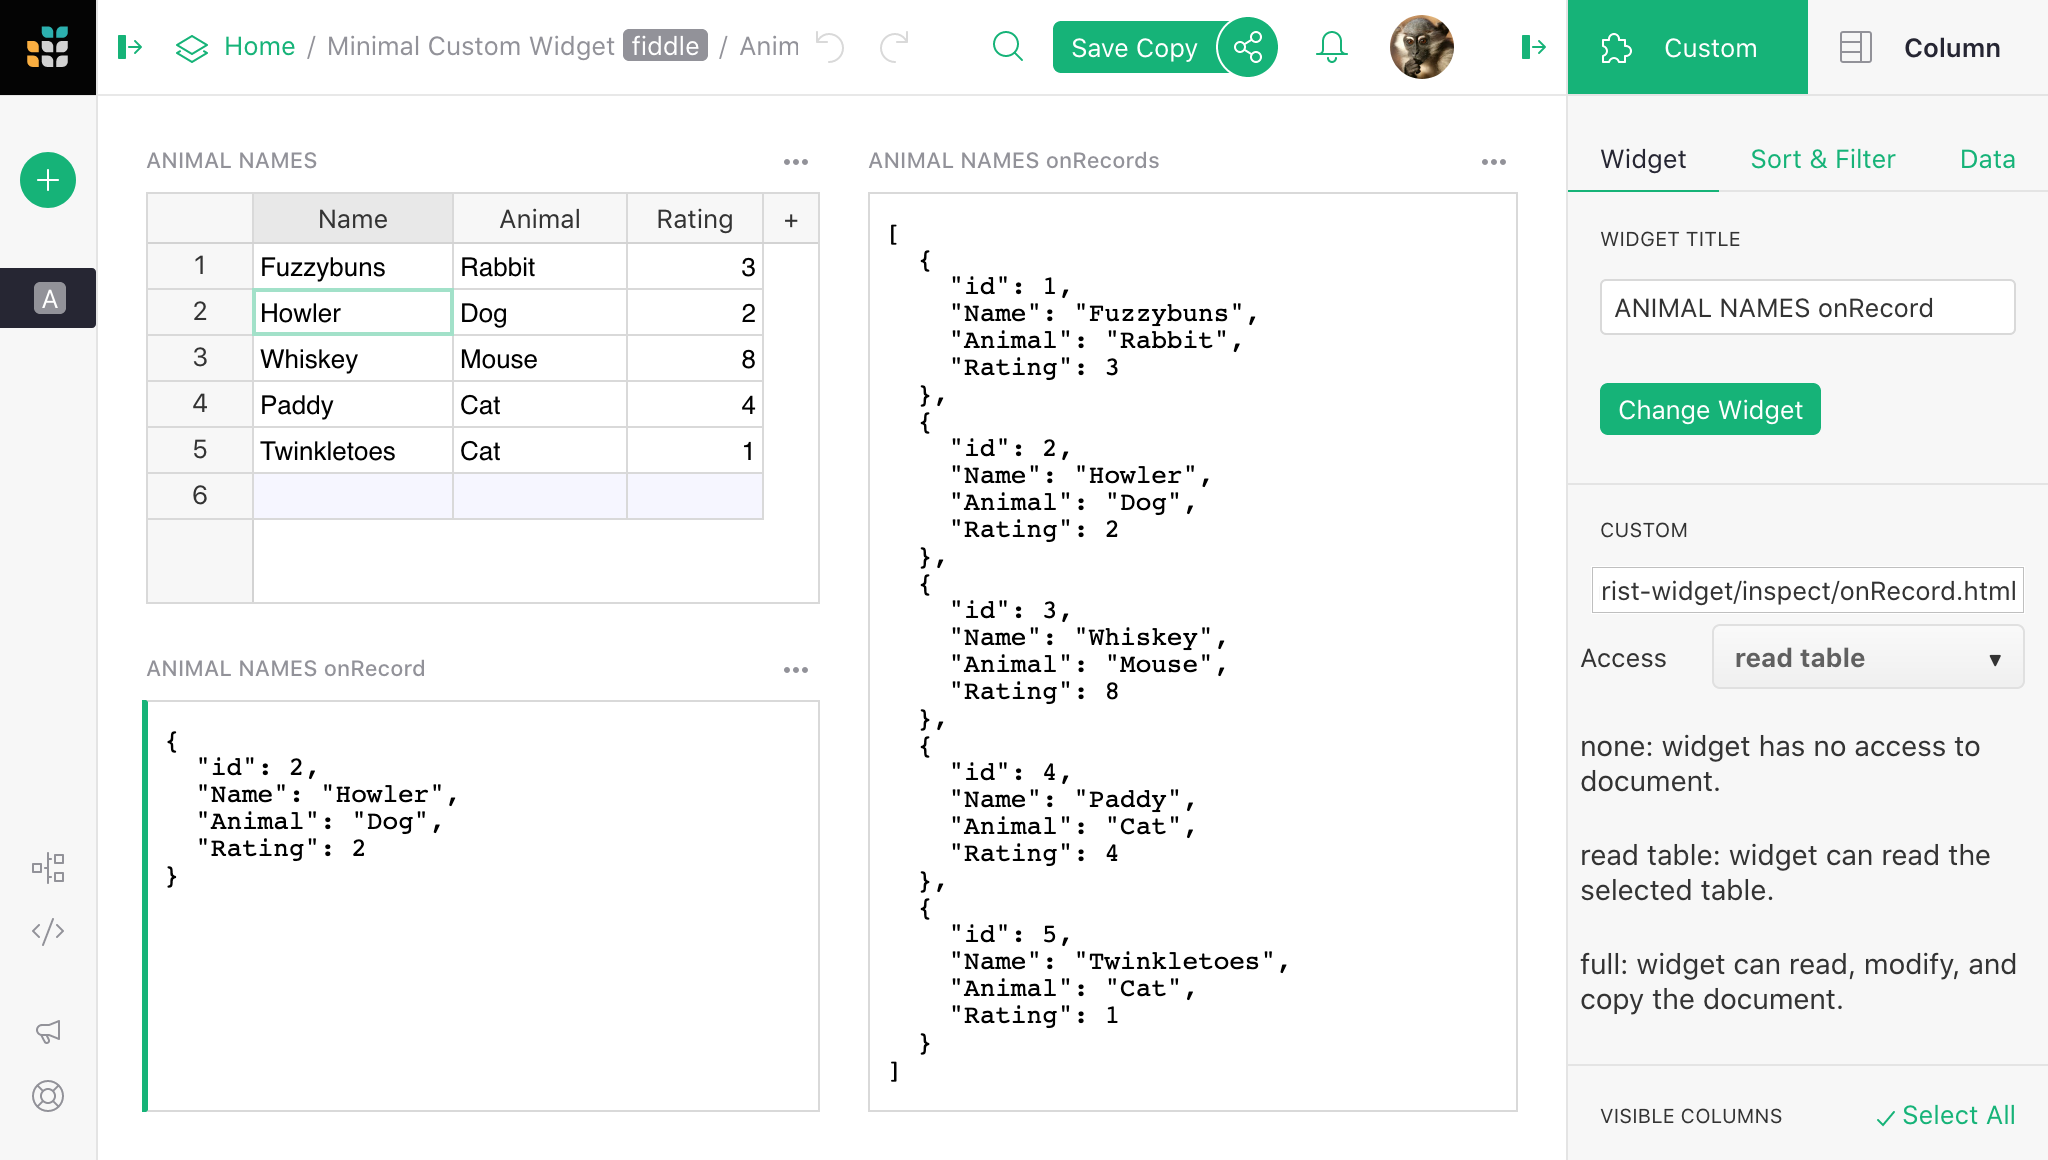
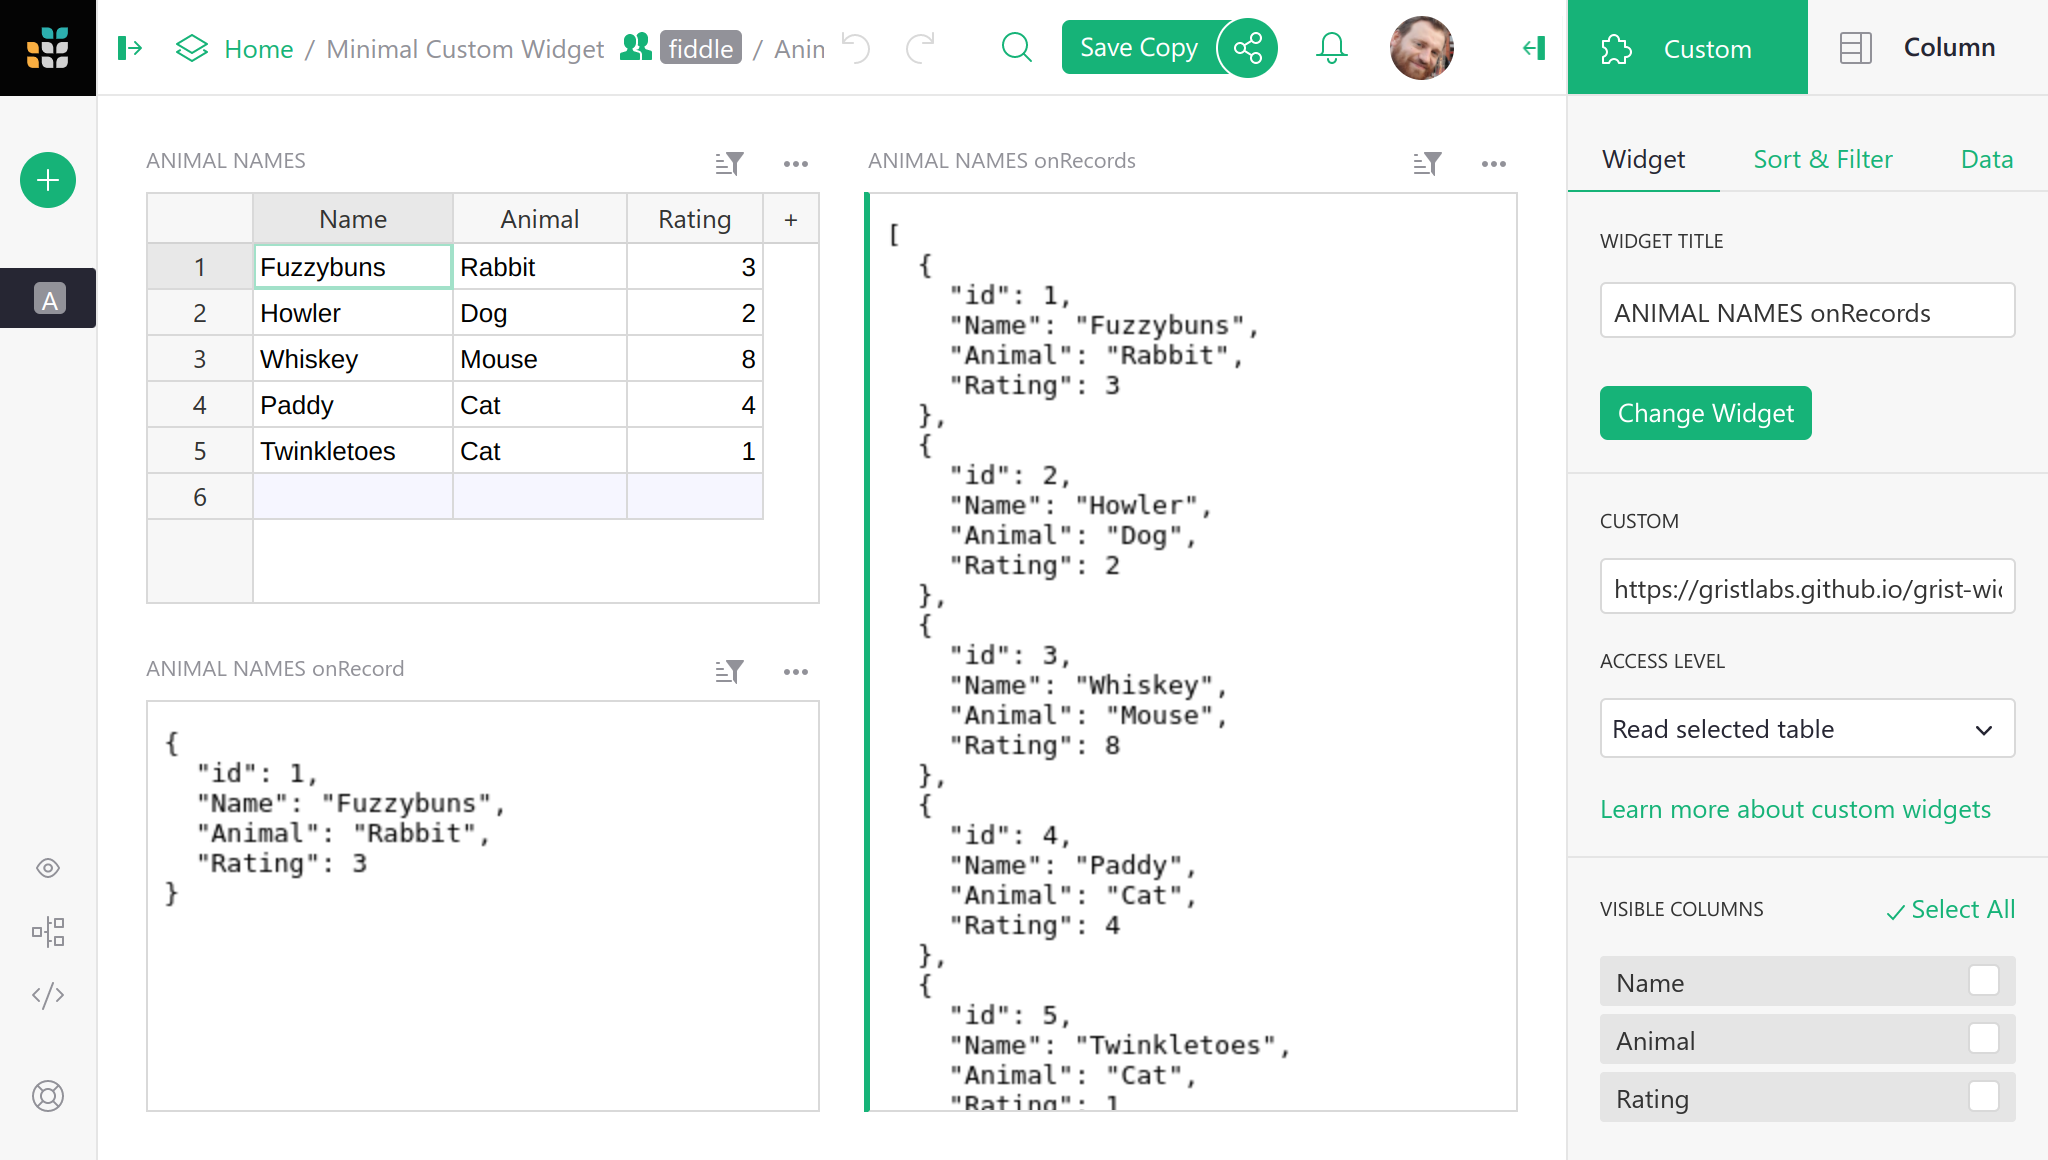
Documenting new widget options

diff --git a/help/widget-custom.md b/help/widget-custom.md
@@ -83,9 +83,9 @@ then `Add Widget to Page`. Then:
 The custom widget is initially blank.  To configure it, click the three-dots button
 on the top right of the custom widget, and select "Widget options".
 
-![configure a custom widget](images/widget_custom_configure.png)
+![configure a custom widget](images/widget_custom_example.png)
 
-In the `CUSTOM` settings section where it says `Full URL of webpage to show`, put
+In the `CUSTOM` settings section where it says `Enter Custom URL`, put
 the link to your custom widget.  Here is a test widget to simply show table data
 in JSON:
 
@@ -96,26 +96,65 @@ for the custom widget):
 
 > <https://gristlabs.github.io/grist-widget/inspect/onRecord.html>
 
-The widget will then show the webpage you've requested.  Now you have the option
-to grant that webpage access to data in your document.  The following access levels
-are available:
+## Access level
 
-   - *None*: the webpage is shown in the widget, but it has no access to
+When you put a link to a custom webpage it will be immediately rendered inside the section. 
+Now you have the option to grant that webpage access to data in your document.  The 
+following access levels are available:
+
+   - *No document access*: the webpage is shown in the widget, but it has no access to
      the Grist document containing the widget.
-   - *Read table*: the webpage is shown in the widget, and is given read access
+   - *Read selected table*: the webpage is shown in the widget, and is given read access
      to the table the widget is configured to select data from.
-   - *Full*: the webpage is shown in the widget, and has full access to
+   - *Full document access*: the webpage is shown in the widget, and has full access to
      read and modify the Grist document containing the widget.
 
 The webpage should be owned and controlled by you or someone you
-trust.  With `Read table` permissions, a widget could send the
-data it accesses to a third party.  With `Full` permissions, a widget could
+trust.  With `Read selected table` permissions, a widget could send the
+data it accesses to a third party.  With `Full document access` permissions, a widget could
 send all the document data to a third party, and modify your document in
 any way.
 
-We do not recommend using `Full` permissions at this time, since the API
+We do not recommend using `Full document access` permissions at this time, since the API
 for modifying the document is not yet stabilized.  If you have
 an urgent need, however, do contact us and request early access.
+
+If you are writing your own custom widget you can specify what access level it needs as
+part of initial __ready__ message, available levels are `none`, `read table` and `full`.
+
+```html
+<script>
+  grist.ready({
+    requiredAccess: 'read table'
+  });
+  grist.onRecord(function(record) {
+    document.getElementById('readout').innerHTML = JSON.stringify(record, null, 2);
+  });
+</script>
+```
+
+It will tell Grist to ask the user if he wishes to grant your widget the required
+permission. Your widget will be reloaded with the appropriate access level if the user
+approves the request.
+
+<center>![access prompt](images/widget_custom_access_prompt.png)</center>
+
+To check what access level is currently granted, you have two options. The first is to
+check the URL - the access level will be appended to the widget URL as a query parameter.
+
+> <https://gristlabs.github.io/grist-widget/inspect/onRecord.html?access=read>
+
+The second option, is to subscribe to a second event exposed by the Grist API:
+
+```javascript
+grist.onOptions(function(options, settings) {
+  console.log(settings.access_level);
+});
+```
+
+For now, just skip the first parameter (it will be described in
+[Widget options](widget-custom.md#widget-options) ). The current access level is part of
+the second parameter, which describes how Grist will interact with your widget.
 
 ## Invoice example
 
@@ -123,7 +162,7 @@ The minimal example above showed records as plain JSON, but the widget
 can get as fancy as you like.  Here is an example of showing a record
 as a printable invoice:
 
-![invoice example](/examples/images/2020-08-invoices/final-invoice.png)
+![invoice example](examples/images/2020-08-invoices/final-invoice.png)
 
 You can read the details of how to use
 this widget in our [Invoice preparation example](examples/2020-08-invoices.md).
@@ -136,3 +175,175 @@ And the source HTML/CSS/JS can be browsed at:
 > <https://github.com/gristlabs/grist-widget/tree/master/invoices>
 
 It uses Vue.js and `grist.onRecord`.
+
+## Creating a custom widget
+
+As you saw, writing a simple widget that uses data from a table is very easy. First, you
+need to tell Grist that you are ready and then subscribe to one of the available events:
+`onRecord`, `onRecords` or `onOptions`.
+
+```javascript
+grist.ready();
+grist.onRecord(function (record) {
+  // Your logic
+});
+```
+
+Let's say you want build a custom widget that will show the image from the URL and
+optionally a single line of text below that image as the image title. You will need to
+read two values from two columns: `Link` and `Title`.
+
+You can, of course, access those columns directly using literal column names in your
+script. Here is a complete source code of the widget that will do the job.
+
+```html
+<script src="https://docs.getgrist.com/grist-plugin-api.js"></script>
+<img id="image" />
+<div id="title" />
+<script>
+  grist.ready();
+  grist.onRecord(function (record) {
+    document.getElementById('image').src = record.Link;
+    document.getElementById('title').innerText = record.Title;
+  });
+</script>
+```
+
+This is a good approach when experimenting with Grist API, but it has two significant
+drawbacks. Every time you rename a column, you will also have to change your widget's
+source code. Also, you won't be able to use this widget on a different table or share it
+with your friends as column names might be different.
+
+### Columns mapping
+
+Instead of using those columns directly, you can ask the user to pick which column to use
+as a `Link` and `Title`. The list of expected columns can be sent to Grist as part of the
+ready method call:
+
+```js
+grist.ready({columns: ['Link', 'Title']});
+```
+
+Using this information, in the creator panel, Grist will hide the regular "Visible" column
+section and display a new UI for user to choose correct column.
+
+<center>![pick columns](images/widget_custom_pick_columns.png)</center>
+
+Your widget will receive this mapping configuration as part of `onRecord` or `onRecords`
+event in the second parameter. You can use this configuration to do the mappings yourself
+or use an API method "mapColumnNames" to do it for you.
+
+```javascript
+grist.ready({columns: ['Link', 'Title']});
+grist.onRecord(function (record, mappings) {
+  const mapped = grist.mapColumnNames(record);
+  if (mapped) {
+    document.getElementById('image').src = mapped.Link;
+    document.getElementById('title').innerText = mapped.Title;
+    console.log(`Using ${mappings.Link} and ${mappings.Title} columns`);
+  }
+});
+```
+
+Now, if you rename one of the columns, the widget will still work. You can also use this
+widget in any other table or share with a friend, as it doesn't depend on your table
+structure and can be easily configured.
+
+In the configuration used above, we told Grist that all the columns are required, and the
+user can pick any column even if the column doesn't contain a text value. To be more
+precise, we can include more options in the request. For example:
+
+```javascript
+grist.ready({columns: [
+  {
+    name: "Link", // What field we will read
+    title: "Image link", // Friendly field name
+    optional: false, // Is this optional field
+    type: "Text" // What type of column we expect
+  }
+]});
+```
+
+The `optional` setting is important for `mapColumnNames` helper. This helper will return a
+mapped record only when all required (not optional) columns are picked.
+
+By default Grist will allow user to pick any type of column. To allow only column of
+certain type you need to set a `type` property. Here are all the valid types:
+
+`Any`, `Int` (*Integer column*), `Numeric` (*Numeric column*), `Text`, `Date`, `DateTime`,
+`Bool` (*Toggle column*), `Choice`, `ChoiceList`, `Ref` (*Reference column*), `RefList`
+(*Reference List*), `Attachments`.
+
+Suppose the user deletes a column or changes its type so that it will no longer match the
+type requested by the widget. In that case, Grist will automatically remove this column
+from the mappings.
+
+## Widget options
+
+If your widget needs to store some local options, Grist offers a simple key-value storage
+API that you can use. Here are some JavaScript snippets that you can use for this purpose:
+
+```js
+// Store a simple text value 
+await grist.widgetApi.setOption('color', '#FF0000');
+
+// Store complex objects as json
+await grist.widgetApi.setOption('settings', { lines: 10, skipFirst: true});
+
+// Read previously saved option
+const color = await grist.widgetApi.getOption('color');
+
+// Clear all local options
+await grist.widgetApi.clearOptions();
+```
+
+When your widget saves or edits some option, the icon on top of the section gets
+highlighted in green. You (or someone using your widget) can either apply those options to
+the widget or revert the modification. This allows viewers (users with read-only access)
+to configure your widget without modifying the original configuration.
+
+<span class="screenshot-large">*![unsaved options](images/widget_custom_unsaved_options.png)*</span>
+{: .screenshot-half }
+
+Saving current options you will apply them to the widget and make them available to other
+collaborators. Using this menu, you can also reset all settings that the widget has saved.
+To do this, press the little trash icon and then `Save`.
+
+Grist will also trigger an event, every time the options are changed (or cleared). Here is
+how you can subscribe to this event.
+
+```javascript
+grist.onOptions(function(options, settings) {
+  if (options) {
+    console.log('Current color', options.color);
+  } else {
+    // No widget options were saved.
+  }
+});
+```
+
+If you are building your own widget, you generally should not read options directly (using
+`grist.widgetApi.getOption()`). A better pattern is to apply them all when they are
+changed. Using the `onOptions` handler will make your widget easier to change and
+understand later.
+
+Suppose your widget has some kind of configuration panel. In that case, you probably need
+some button or other UI element that the user can use to show it. This additional UI
+element will likely be rarely used by you or your collaborators, so it doesn't make sense
+to show it all the time. To help with this, Grist offers an additional interaction option
+you can send as part of the ready message.
+
+```javascript
+grist.ready({
+  onEditOptions: function() {
+    // Your logic to open the configuration panel.
+  }
+});
+```
+
+This will tell Grist to display an additional button `Open configuration` in the creator
+panel and the section menu. When clicked, it will trigger your handler, which you can use
+to show your own custom configuration screen.
+
+<span class="screenshot-large">*![unsaved options](images/widget_custom_open_configuration.png)*</span>
+{: .screenshot-half }
